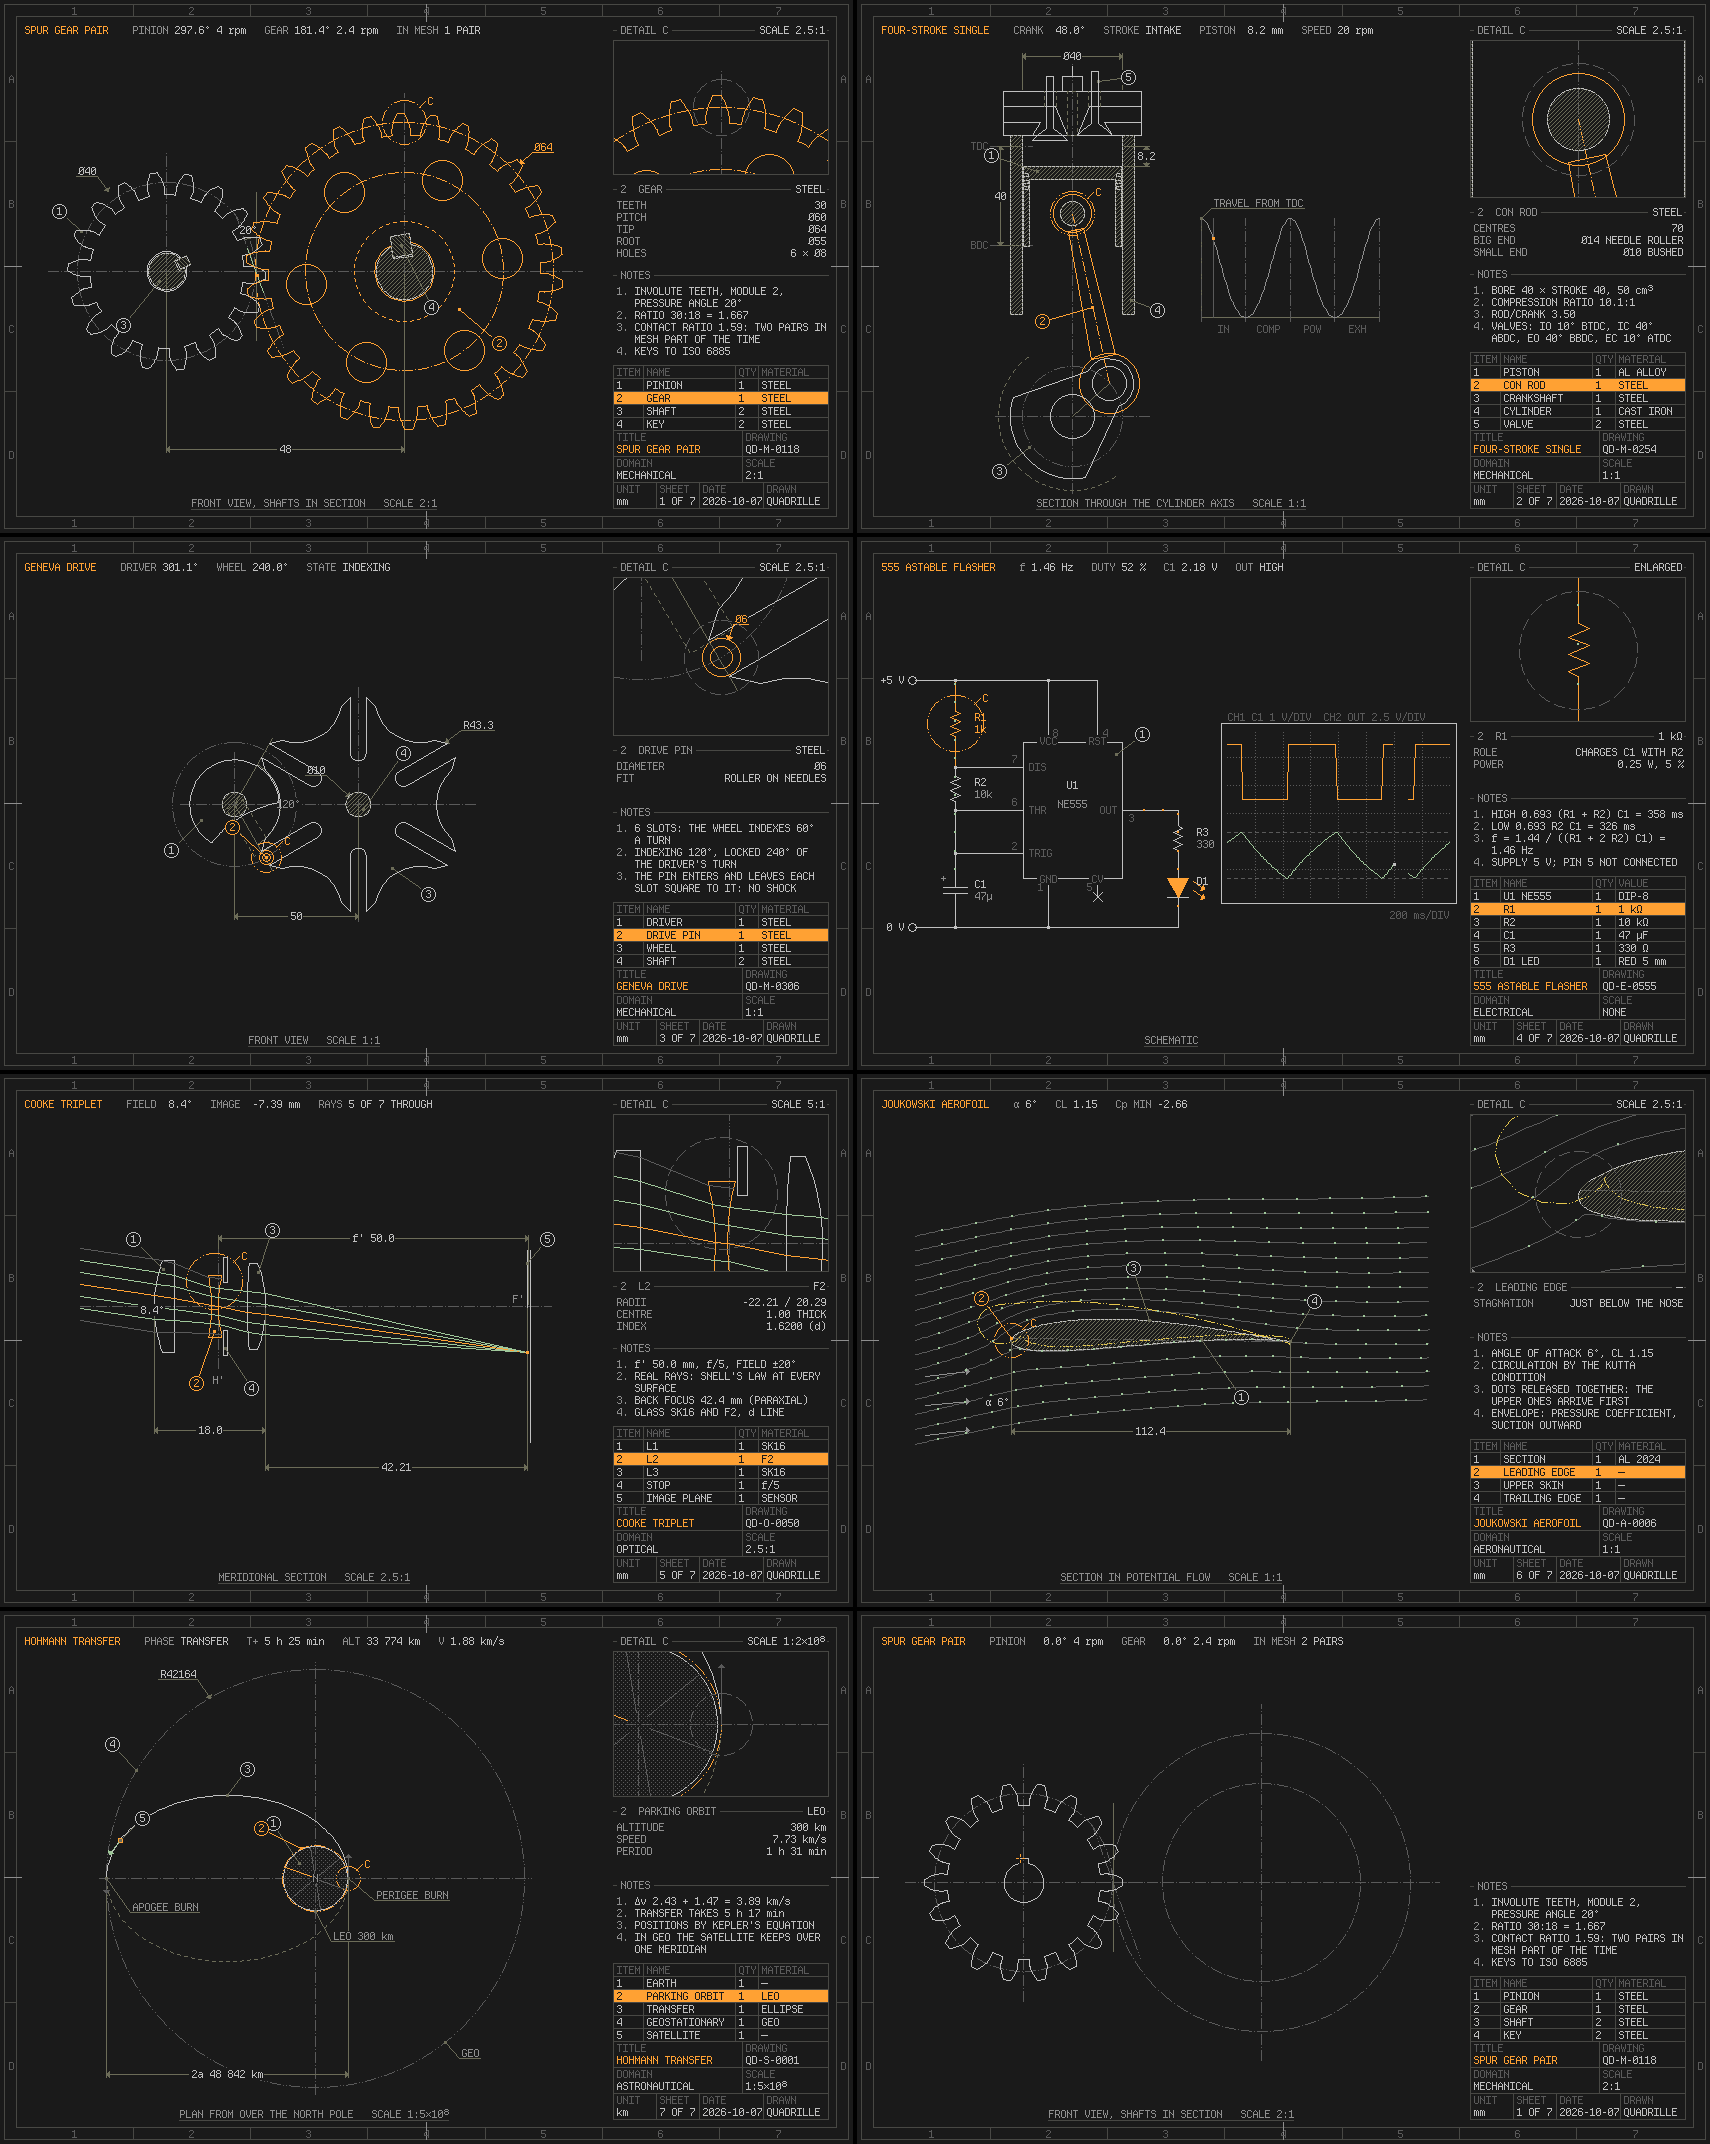
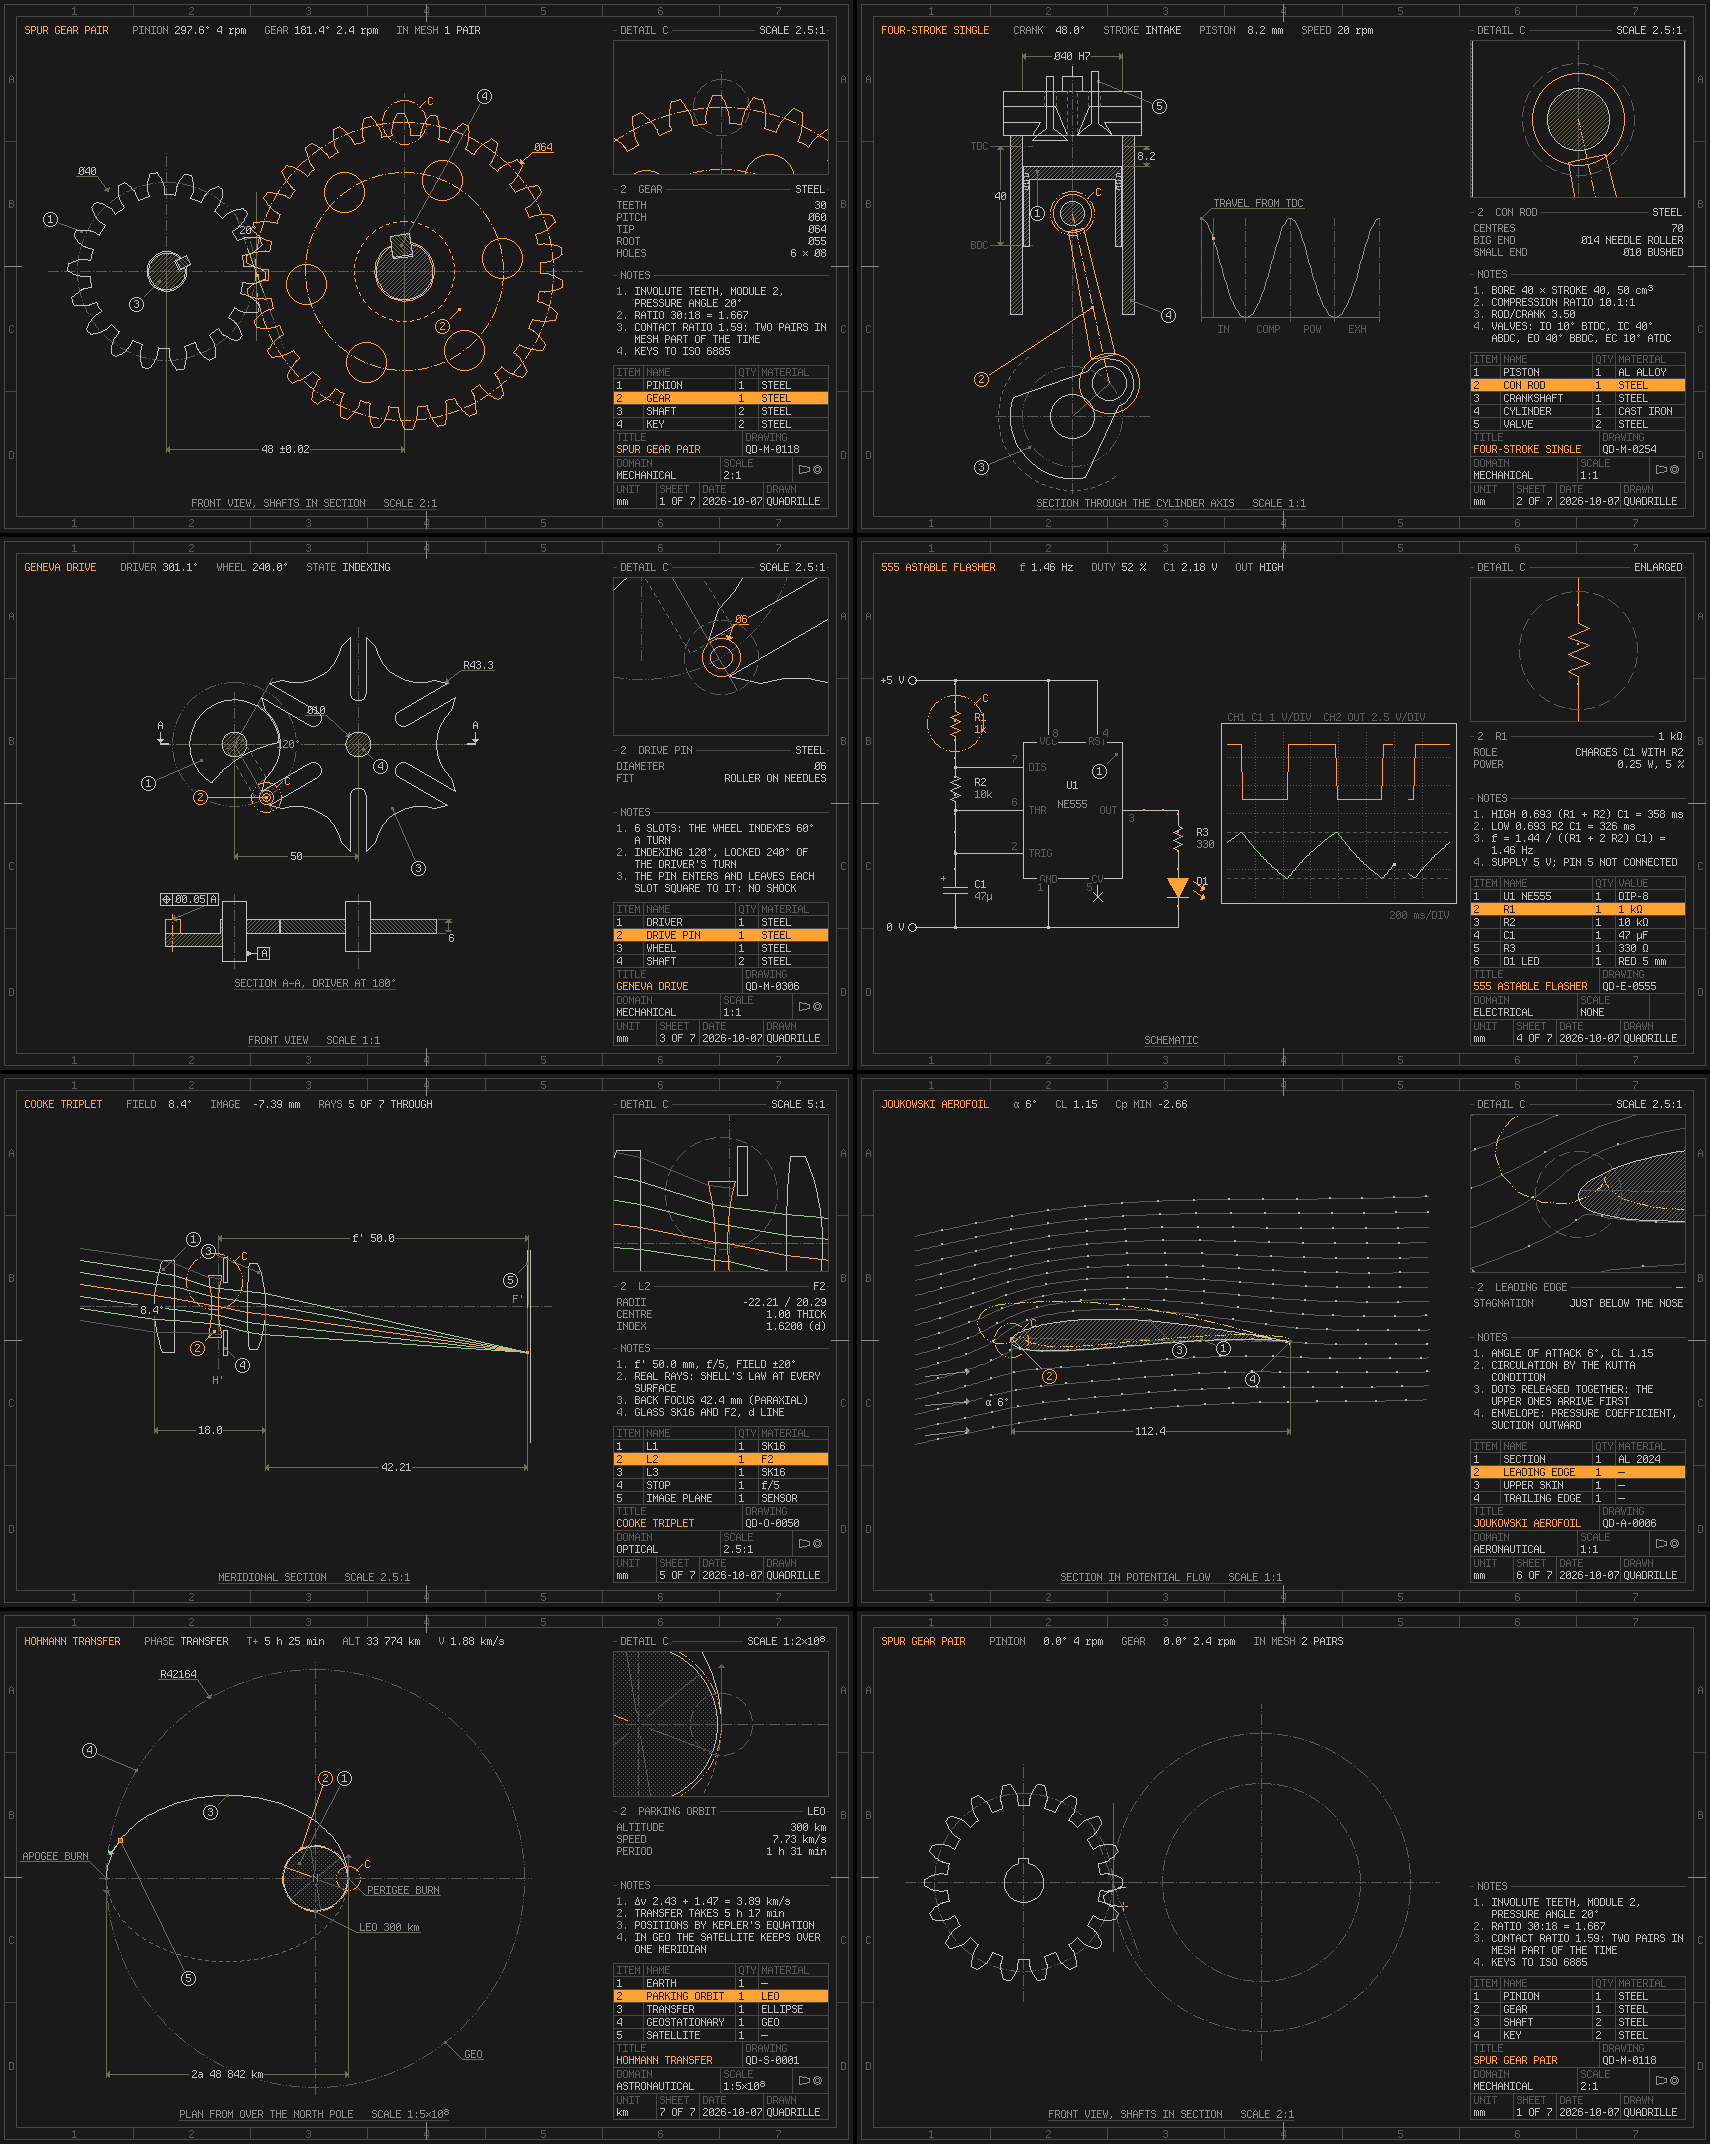
Document the sheets' views and conventions, with new renders
The README describes the sections, limits and fits, symbols, revision
table and automatic placement, with the gears' section on the ultrawide
added to the renders and the others drawn again; RESUME records where
the work stands, the iced fork's unpushed fixes and the local patch the
build depends on until they are pushed.

Changed region(s): [[0.124, 0.3438, 0.248, 0.4375], [0.217, 0.875, 0.248, 0.9062], [0.093, 0.4062, 0.124, 0.4375]]

diff --git a/README.md b/README.md
@@ -179,10 +179,26 @@ it; the cursor is hidden only over its own surfaces.
 
 ![The engine at 1:1 on the ultrawide, in the paper theme: the connecting rod in detail](plugins/screenshots/screensaver-engine-paper-ultrawide.png)
 
+![The gears and their section A–A on the ultrawide, in the paper theme: the key in detail](plugins/screenshots/screensaver-gears-section-paper-ultrawide.png)
+
+The sheets keep a drawing office's conventions. Views line up as first-angle
+projection places them: the gears and the Geneva drive are sectioned through
+their shafts under the front view, behind a cutting plane, with bodies lined,
+teeth, shafts, keys and pins left whole, and hidden teeth where gears mesh;
+on the laptop a view goes in only if it fits at the front view's scale.
+Dimensions carry limits and fits (`48 ±0.02`, `Ø8 H7/k6`), surfaces their
+finish (`√ Ra 0.8`), and features datums and geometric tolerances in feature
+control frames; the title block has the first-angle projection symbol and,
+where the column has room, a revision table. Balloons and notes place
+themselves: lined up beside the drawing, or just off what they point at,
+whichever hides least of the drawing and crosses least of it; a balloon on a
+moving part steps out of the way of lettering it would cover. Lettering is
+drawn whole or not at all.
+
 Drawings to scale use a preferred scale (ISO 5455, with DIN 823's 2.5) that
-is true on the display's calibration: the engine is 1:1 on both monitors here,
-the gears 2:1 on the laptop and 2.5:1 on the ultrawide; on an estimated size
-the scale reads `~2:1`. Lettering,
+is true on the display's calibration: the engine is 1:1 on both monitors here
+and the gears 2:1 (on the ultrawide, with room for their section under them);
+on an estimated size the scale reads `~2:1`. Lettering,
 patterns and line types are whole virtual pixels, in the Omarchy theme's
 roles. Still parts of a settled sheet are kept and only what moves is drawn
 again, so the renderer's damage is the size of the motion

diff --git a/docs/RESUME.md b/docs/RESUME.md
@@ -193,11 +193,20 @@ pointer enter (it was never hidden). `plugins/quadrille.idle` (opt-in,
   compared part by part, lists aligned past an insertion, clip mask rebuilt only
   when needed, scattered damage repainted in one pass). Waiting on the user's
   go-ahead to push; then drop the local `[patch]`, `cargo update` the iced git
-  source, rebuild, reinstall `quadrille-bar` and `quadrille-screensaver`.
-- **CAD sheets** (plan approved 2026-10-07): automatic placement of balloons and
-  notes (in progress: `draft/place.rs`), then aligned orthographic views and
-  generated sections, then drawing conventions (tolerances, surface finish,
-  datums, projection symbol, revisions).
+  source, rebuild, reinstall `quadrille-bar` and `quadrille-screensaver`. While
+  the fork is unpushed, layershell builds against it only through an
+  uncommitted `[patch."https://github.com/jwric/iced"]` of all eleven crates
+  pointing at `/home/jwric/dev/iced/.claude/worktrees/0.15-pixel-scale`.
+- **CAD sheets** (plan approved 2026-10-07, done): automatic placement of
+  balloons and notes (`draft/place.rs`), views lined up by first-angle
+  projection with sections of the gears and the Geneva drive
+  (`Subject::views`, `Draft::in_view`, `cutting_plane`), and drawing
+  conventions (limits and fits, surface finish, datums, feature control
+  frames, the projection symbol, a revision table). The engine has no second
+  view: its travel chart takes the place a side view would. Possible next:
+  automatic placement in detail views, more sections (the engine's crank
+  through its axis, if the chart moves), and dimensions placed automatically
+  too.
 - **"This computer"** (the user's idea, 2026-10-07): a subject drawn from the
   machine it runs on, so every user's sheets are their own hardware. Sketch:
   - Inventory, read once at start, no root needed: `/sys/class/dmi/id`
